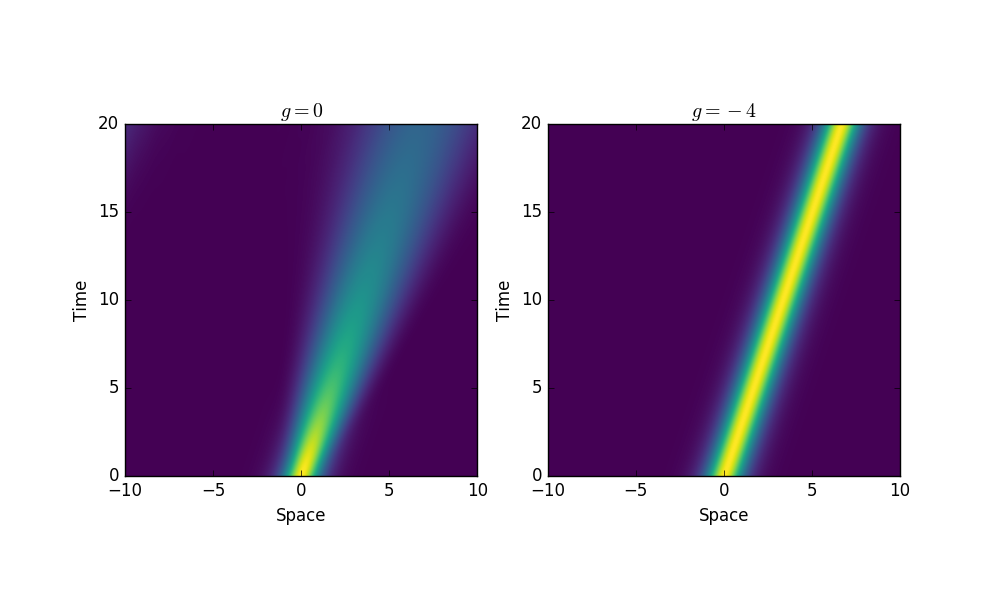
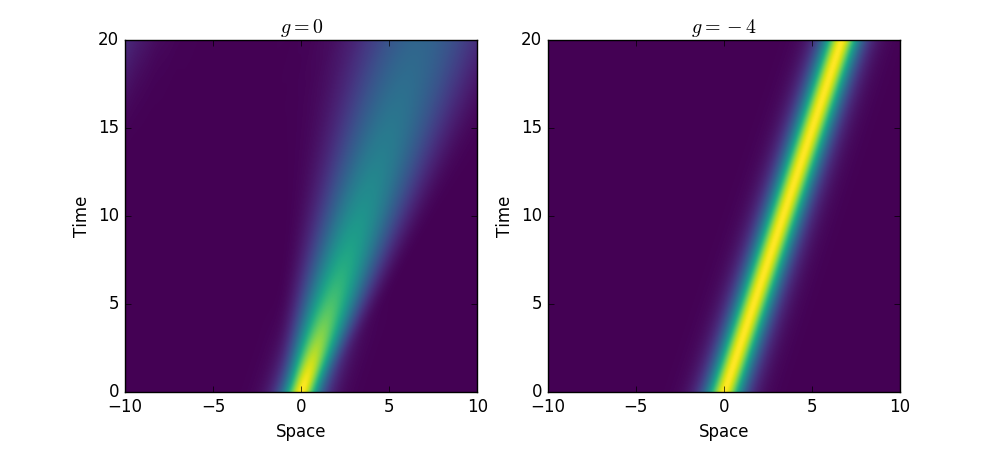
Changed x to -20 to 20

diff --git a/extension-v4-repeated.py b/extension-v4-repeated.py
@@ -53,7 +53,7 @@ n_points = 4000 #number of x steps
 n_times = 4000 #number of timesteps
 dt = 0.001
 ts = np.linspace(0,20,n_times) #only for phase 
-xs = np.linspace(-30, 30, n_points)
+xs = np.linspace(-20, 20, n_points)
 L = xs[-1] - xs[0] #box length 
 dx = L/n_points
 
@@ -97,7 +97,7 @@ V = 1/2 * mws * xs**2
 #zeroPot = schrodinger_time_evolution(two_solitons(-6,6,L/6,-L/6,0,rel_phase1,0.5), 0, g) 
 #zeroPotPi = schrodinger_time_evolution(two_solitons(-6,6,L/6,-L/6,0,rel_phase2,0.5), 0, g) 
 
-velocity = 20 #L/2 originally 
+velocity = 10 #L/2 originally 
 
 harmPot = schrodinger_time_evolution(two_solitons(-4,4,velocity,-velocity,0,rel_phase1,family_param), V, g) 
 harmPotPi = schrodinger_time_evolution(two_solitons(-4,4,velocity,-velocity,0,rel_phase2,family_param), V, g) 
@@ -112,13 +112,15 @@ pyplot.figure(figsize=(18,5))
 
 
 pyplot.subplot(131)
-pyplot.imshow(np.transpose(harmPot), extent=(-20,20,0,40), origin='lower', cmap='viridis', norm=colors.SymLogNorm(linthresh=0.3, vmin=harmPotPi.min(), vmax=harmPotPi.max())) 
+pyplot.imshow(np.transpose(harmPot), extent=(-20,20,0,40), origin='lower', cmap='viridis') 
+#, norm=colors.SymLogNorm(linthresh=0.3, vmin=harmPotPi.min(), vmax=harmPotPi.max())
 pyplot.xlabel("Space")
 pyplot.ylabel("Time")
 pyplot.title("Relative phase {}".format(rel_phase1))
 
 pyplot.subplot(132)
-pyplot.imshow(np.transpose(harmPotPi), extent=(-20,20,0,40), origin='lower', cmap='viridis', norm=colors.SymLogNorm(linthresh=0.3, vmin=harmPotPi.min(), vmax=harmPotPi.max())) 
+pyplot.imshow(np.transpose(harmPotPi), extent=(-20,20,0,40), origin='lower', cmap='viridis')
+#, norm=colors.SymLogNorm(linthresh=0.3, vmin=harmPotPi.min(), vmax=harmPotPi.max()) 
 pyplot.xlabel("Space")
 pyplot.ylabel("Time")
 #pyplot.title("Relative phase {}".format(rel_phase2))
